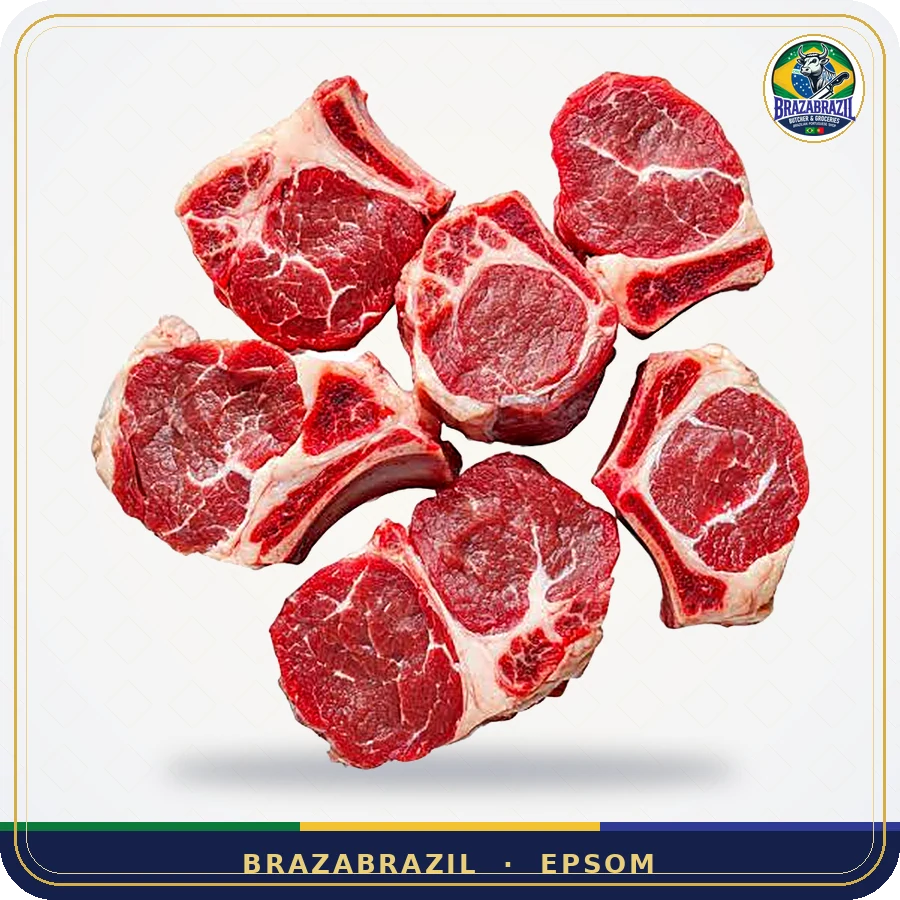
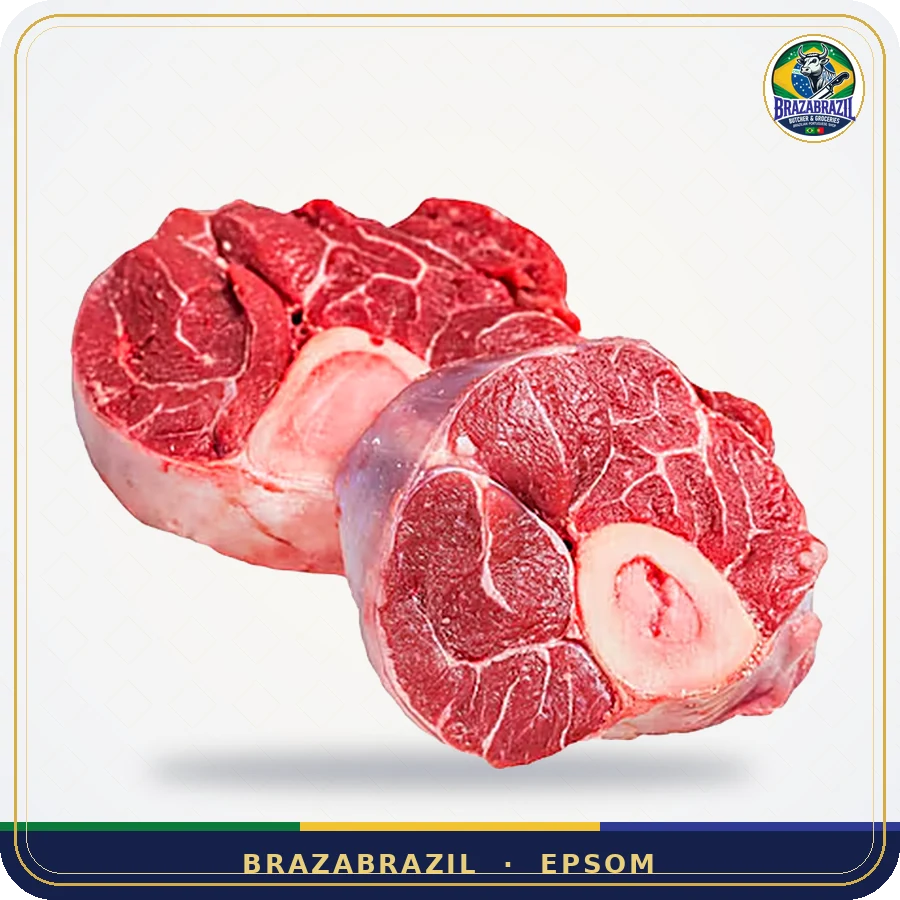
Full price audit (150 items match lists); remove example products and linguiças without photo; Mortadela Porminho Extra per list; new photos osso buco, Beirão kit, Snip 15; hide BBQ boxes section
Claude-Session: https://claude.ai/code/session_01DDRaaWaovpG94AFaRVuRbM

diff --git a/js/products.js b/js/products.js
@@ -20,115 +20,11 @@
    NOTE: prices below are EXAMPLES — replace with the shop's real prices.
    ============================================================ */
 
-window.CATEGORIES = ["all", "beef", "pork", "chicken", "sausages", "boxes", "groceries"];
+window.CATEGORIES = ["all", "beef"];
 
 window.PRODUCTS = [
-  // BEEF → real cuts and prices live in js/beef.js
-
-  // ---------- PORK ----------
-  { id: "costelinha", name: "Costelinha de Porco", cat: "pork", unit: "kg", price: 11.99, tags: [], image: "", available: true,
-    sub: { en: "Pork ribs", pt: "Costela suína", es: "Costillas de cerdo" },
-    desc: { en: "Meaty pork ribs, ideal with sal grosso on the barbecue.",
-            pt: "Costelinha carnuda, ideal com sal grosso na churrasqueira.",
-            es: "Costillas carnosas, ideales con sal gruesa a la parrilla." } },
-  { id: "panceta", name: "Panceta", cat: "pork", unit: "kg", price: 10.99, tags: [], image: "", available: true,
-    sub: { en: "Pork belly", pt: "Barriga de porco", es: "Panceta de cerdo" },
-    desc: { en: "Crispy crackling outside, juicy inside. A churrasco favourite.",
-            pt: "Pururuca por fora, suculenta por dentro. Favorita do churrasco.",
-            es: "Crujiente por fuera, jugosa por dentro. Favorita del churrasco." } },
-  { id: "pernil", name: "Pernil", cat: "pork", unit: "kg", price: 8.99, tags: [], image: "", available: true,
-    sub: { en: "Pork leg", pt: "Pernil suíno", es: "Pierna de cerdo" },
-    desc: { en: "Marinate overnight and roast for the perfect Sunday lunch.",
-            pt: "Tempere na véspera e asse para o almoço de domingo perfeito.",
-            es: "Marínalo la noche anterior y ásalo para la comida del domingo." } },
-
-  // ---------- CHICKEN ----------
-  { id: "coracao", name: "Coração de Frango", cat: "chicken", unit: "kg", price: 7.99, tags: ["classic"], image: "", available: true,
-    sub: { en: "Chicken hearts", pt: "Coraçãozinho", es: "Corazones de pollo" },
-    desc: { en: "Skewered and grilled — a must at every Brazilian barbecue.",
-            pt: "No espeto e na brasa — não pode faltar no churrasco.",
-            es: "En brocheta y a la brasa — imprescindible en el churrasco." } },
-  { id: "asinha", name: "Asinha de Frango", cat: "chicken", unit: "kg", price: 6.99, tags: [], image: "", available: true,
-    sub: { en: "Chicken wings", pt: "Asinha e coxinha da asa", es: "Alitas de pollo" },
-    desc: { en: "Season with garlic and lime, grill until golden.",
-            pt: "Tempere com alho e limão e asse até dourar.",
-            es: "Adoba con ajo y lima y asa hasta dorar." } },
-  { id: "sobrecoxa", name: "Sobrecoxa", cat: "chicken", unit: "kg", price: 7.49, tags: [], image: "", available: true,
-    sub: { en: "Chicken thighs", pt: "Sobrecoxa desossada", es: "Contramuslos de pollo" },
-    desc: { en: "Boneless and juicy, ready for the grill or the oven.",
-            pt: "Desossada e suculenta, pronta para a grelha ou o forno.",
-            es: "Deshuesado y jugoso, listo para la parrilla o el horno." } },
-
-  // ---------- SAUSAGES ----------
-  { id: "toscana", name: "Linguiça Toscana", cat: "sausages", unit: "kg", price: 9.99, tags: ["best"], image: "", available: true,
-    sub: { en: "Fresh Brazilian pork sausage", pt: "Linguiça fresca de porco", es: "Salchicha fresca brasileña" },
-    desc: { en: "Lightly seasoned fresh sausage — the opener of every churrasco.",
-            pt: "Linguiça fresca levemente temperada — a abertura de todo churrasco.",
-            es: "Salchicha fresca suavemente sazonada — la que abre todo churrasco." } },
-  { id: "calabresa", name: "Linguiça Calabresa", cat: "sausages", unit: "each", price: 4.49, tags: [], image: "", available: true,
-    sub: { en: "Smoked sausage · pack", pt: "Defumada · pacote", es: "Ahumada · paquete" },
-    desc: { en: "Smoked and slightly spicy. Fry with onions or add to feijoada.",
-            pt: "Defumada e levemente picante. Acebolada ou na feijoada.",
-            es: "Ahumada y ligeramente picante. Con cebolla o en la feijoada." } },
-  { id: "chourico", name: "Chouriço", cat: "sausages", unit: "each", price: 5.99, tags: ["portuguese"], image: "", available: true,
-    sub: { en: "Portuguese chorizo", pt: "Chouriço português", es: "Chorizo portugués" },
-    desc: { en: "Traditional Portuguese smoked chouriço, perfect flame-grilled.",
-            pt: "Chouriço português tradicional, perfeito assado na chama.",
-            es: "Chorizo portugués tradicional, perfecto asado a la llama." } },
-
-  // ---------- BBQ BOXES ----------
-  { id: "box4", name: "Churrasco Box · 4", cat: "boxes", unit: "each", price: 59.00, tags: ["easy"], image: "", available: true,
-    sub: { en: "Brazilian BBQ box for 4 people", pt: "Kit churrasco para 4 pessoas", "pt-PT": "Caixa de churrasco para 4 pessoas", es: "Caja de churrasco para 4 personas" },
-    desc: { en: "Picanha, linguiça, chicken hearts, farofa and sal grosso.",
-            pt: "Picanha, linguiça, coraçãozinho, farofa e sal grosso.",
-            es: "Picanha, linguiça, corazones de pollo, farofa y sal gruesa." } },
-  { id: "box8", name: "Churrasco Box · 8", cat: "boxes", unit: "each", price: 109.00, tags: ["popular"], image: "", available: true,
-    sub: { en: "Brazilian BBQ box for 8 people", pt: "Kit churrasco para 8 pessoas", "pt-PT": "Caixa de churrasco para 8 pessoas", es: "Caja de churrasco para 8 personas" },
-    desc: { en: "Picanha, fraldinha, linguiça, wings, hearts, farofa and pão de queijo.",
-            pt: "Picanha, fraldinha, linguiça, asinhas, coraçãozinho, farofa e pão de queijo.",
-            es: "Picanha, fraldinha, linguiça, alitas, corazones, farofa y pão de queijo." } },
-  { id: "boxpicanha", name: "Picanha Lovers", cat: "boxes", unit: "each", price: 79.00, tags: [], image: "", available: true,
-    sub: { en: "Two whole picanhas + sides", pt: "Duas picanhas inteiras + acompanhamentos", es: "Dos picanhas enteras + guarniciones" },
-    desc: { en: "Two premium picanhas, sal grosso, farofa and chimichurri.",
-            pt: "Duas picanhas premium, sal grosso, farofa e chimichurri.",
-            es: "Dos picanhas premium, sal gruesa, farofa y chimichurri." } },
-
-  // ---------- GROCERIES ----------
-  { id: "paodequeijo", name: "Pão de Queijo", cat: "groceries", unit: "each", price: 7.99, tags: ["gf"], image: "", available: true,
-    sub: { en: "Cheese bread · frozen 1 kg", pt: "Congelado · 1 kg", es: "Pan de queso · congelado 1 kg" },
-    desc: { en: "Warm, chewy Brazilian cheese bread. Naturally gluten-free.",
-            pt: "Quentinho e macio, como em Minas. Naturalmente sem glúten.",
-            es: "Pan de queso brasileño, tierno y elástico. Naturalmente sin gluten." } },
-  { id: "farofa", name: "Farofa Pronta", cat: "groceries", unit: "each", price: 3.49, tags: [], image: "", available: true,
-    sub: { en: "Toasted cassava flour", pt: "Farofa temperada", es: "Harina de yuca tostada" },
-    desc: { en: "The crunchy side every churrasco needs.",
-            pt: "O acompanhamento crocante que todo churrasco precisa.",
-            es: "El acompañamiento crujiente que todo churrasco necesita." } },
-  { id: "salgrosso", name: "Sal Grosso", cat: "groceries", unit: "each", price: 2.49, tags: [], image: "", available: true,
-    sub: { en: "Coarse BBQ salt · 1 kg", pt: "Para churrasco · 1 kg", es: "Sal gruesa · 1 kg" },
-    desc: { en: "The only seasoning a good picanha needs.",
-            pt: "O único tempero que uma boa picanha precisa.",
-            es: "El único condimento que necesita una buena picanha." } },
-  { id: "feijao", name: "Feijão Preto", cat: "groceries", unit: "each", price: 3.29, tags: ["vegan"], image: "", available: true,
-    sub: { en: "Black beans · 1 kg", pt: "1 kg", es: "Frijoles negros · 1 kg" },
-    desc: { en: "For feijoada and everyday rice and beans.",
-            pt: "Para a feijoada e o arroz com feijão de todo dia.",
-            es: "Para la feijoada y el arroz con frijoles de cada día." } },
-  { id: "guarana", name: "Guaraná Antarctica", cat: "groceries", unit: "each", price: 1.29, tags: [], image: "", available: true,
-    sub: { en: "Brazilian soft drink · can", pt: "Lata", es: "Refresco brasileño · lata" },
-    desc: { en: "Brazil's favourite fizzy drink.",
-            pt: "O refrigerante preferido do Brasil.",
-            es: "El refresco favorito de Brasil." } },
-  { id: "bacalhau", name: "Bacalhau", cat: "groceries", unit: "kg", price: 14.99, tags: ["portuguese"], image: "", available: true,
-    sub: { en: "Portuguese salt cod", pt: "Bacalhau salgado português", es: "Bacalao salado portugués" },
-    desc: { en: "Premium salted cod for bacalhau à brás and more.",
-            pt: "Bacalhau premium para bacalhau à brás, à Gomes de Sá e muito mais.",
-            es: "Bacalao premium para bacalhau à brás y mucho más." } },
-  { id: "nata", name: "Pastéis de Nata", cat: "groceries", unit: "each", price: 5.49, tags: ["portuguese"], image: "", available: true,
-    sub: { en: "Portuguese custard tarts · 4", pt: "Caixa com 4", es: "Pastelitos de nata · 4" },
-    desc: { en: "Crisp pastry, creamy custard, a touch of cinnamon.",
-            pt: "Massa folhada estaladiça, creme suave e um toque de canela.",
-            es: "Hojaldre crujiente, crema suave y un toque de canela." } }
+  // Real products live in js/beef.js, js/deli.js, js/frozen.js and js/drinks.js.
+  // (The example products used during the build were removed so no invented price appears on the site.)
 ];
 
 /* "Know your cuts" guide */

diff --git a/js/i18n.js b/js/i18n.js
@@ -21,10 +21,10 @@ window.I18N = {
     "pt-PT": "BrazaBrazil — Talho e Mercearia Brasileira e Portuguesa em Epsom",
     es: "BrazaBrazil — Carnicería y Tienda Brasileña y Portuguesa en Epsom" },
   meta_desc: {
-    en: "Brazilian and Portuguese butcher and groceries in Epsom, Surrey. Picanha, fraldinha, linguiça, churrasco boxes and more. Order online for collection or local delivery.",
-    "pt-BR": "Açougue e mercearia brasileira e portuguesa em Epsom, Surrey. Picanha, fraldinha, linguiça, kits de churrasco e muito mais. Peça online para retirar ou receber em casa.",
-    "pt-PT": "Talho e mercearia brasileira e portuguesa em Epsom, Surrey. Picanha, fraldinha, linguiça, caixas de churrasco e muito mais. Encomende online para levantar ou receber em casa.",
-    es: "Carnicería y tienda brasileña y portuguesa en Epsom, Surrey. Picanha, fraldinha, linguiça, cajas de churrasco y más. Pide online para recoger o recibir a domicilio." },
+    en: "Brazilian and Portuguese butcher and groceries in Epsom, Surrey. Picanha, fraldinha, chouriço, cachaça, frozen Brazilian food and more. Order online for collection or local delivery.",
+    "pt-BR": "Açougue e mercearia brasileira e portuguesa em Epsom, Surrey. Picanha, fraldinha, chouriço, cachaça, congelados brasileiros e muito mais. Peça online para retirar ou receber em casa.",
+    "pt-PT": "Talho e mercearia brasileira e portuguesa em Epsom, Surrey. Picanha, fraldinha, chouriço, cachaça, congelados brasileiros e muito mais. Encomende online para levantar ou receber em casa.",
+    es: "Carnicería y tienda brasileña y portuguesa en Epsom, Surrey. Picanha, fraldinha, chouriço, cachaça, congelados brasileños y más. Pide online para recoger o recibir a domicilio." },
 
   /* ---------- Top bar & header ---------- */
   t_butcher: { en: "Brazilian &amp; Portuguese Butcher", "pt-BR": "Açougue Brasileiro &amp; Português", "pt-PT": "Talho Brasileiro &amp; Português", es: "Carnicería Brasileña &amp; Portuguesa" },
@@ -73,10 +73,10 @@ window.I18N = {
   s_search: { en: "Search picanha, linguiça…", "pt-BR": "Buscar picanha, linguiça…", "pt-PT": "Procurar picanha, linguiça…", es: "Buscar picanha, linguiça…" },
   vip_title: { en: "Daily offers in our WhatsApp VIP group", "pt-BR": "Ofertas diárias no nosso grupo VIP do WhatsApp", "pt-PT": "Ofertas diárias no nosso grupo VIP do WhatsApp", es: "Ofertas diarias en nuestro grupo VIP de WhatsApp" },
   vip_text: {
-    en: "Special prices on picanha, boxes and groceries — every day, only for members.",
-    "pt-BR": "Preços especiais em picanha, kits e mercearia — todos os dias, só para membros.",
-    "pt-PT": "Preços especiais em picanha, caixas e mercearia — todos os dias, só para membros.",
-    es: "Precios especiales en picanha, cajas y productos — cada día, solo para miembros." },
+    en: "Special prices on picanha, cuts and groceries — every day, only for members.",
+    "pt-BR": "Preços especiais em picanha, carnes e mercearia — todos os dias, só para membros.",
+    "pt-PT": "Preços especiais em picanha, carnes e mercearia — todos os dias, só para membros.",
+    es: "Precios especiales en picanha, carnes y productos — cada día, solo para miembros." },
   vip_join: { en: "Join free", "pt-BR": "Entrar grátis", "pt-PT": "Entrar grátis", es: "Únete gratis" },
   price_note: {
     en: "Meat sold by weight is cut to order; the final price is confirmed when weighed.",

diff --git a/js/deli.js b/js/deli.js
@@ -41,9 +41,6 @@ window.GROUPS.deli = [
   S("calabresa-jlp", "Calabresa JLP", "linguicas", 14.90, "calabresa-jlp",
     { en: "Smoked sausage · per kg", pt: "Calabresa defumada · por kg", es: "Salchicha ahumada · por kg" },
     { en: "The classic smoked calabresa, sold by weight.", pt: "A clássica calabresa defumada, vendida a peso.", es: "La clásica calabresa ahumada, al peso." }, { unit: "kg" });
-  S("linguica-dchaves", "Linguiça D'Chaves Tradicional", "linguicas", 35.00, "",
-    { en: "Traditional Portuguese linguiça · per kg", pt: "Linguiça tradicional portuguesa · por kg", es: "Longaniza portuguesa tradicional · por kg" },
-    { en: "Artisanal smoked linguiça from Chaves, Portugal.", pt: "Linguiça fumada artesanal de Chaves, Portugal.", es: "Longaniza ahumada artesanal de Chaves, Portugal." }, { unit: "kg", tags: ["portuguese"] });
 
   /* ---------- CHOURIÇOS & FARINHEIRAS ---------- */
   S("chourica-lavrador", "Chouriça Lavrador Terras do Demo", "chouricos", 2.99, "chourica-lavrador",
@@ -73,10 +70,8 @@ window.GROUPS.deli = [
   G("mortadela", "Mortadela", "frios",
     { en: "Mortadella", pt: "Mortadela", es: "Mortadela" },
     { en: "For the classic mortadela sandwich — sliced thin, piled high.", pt: "Para o clássico sanduíche de mortadela — fatiada fininha.", es: "Para el clásico bocadillo de mortadela — en lonchas finas." },
-    [["mortadela-porminho", "Porminho", 3.50, "mortadela-porminho"], ["mortadela-beretta", "Bologna IGP F. Beretta", 3.99, "mortadela-beretta"]]);
-  S("chouricao-porminho", "Chouriçao Extra Porminho", "chouricos", 12.99, "chouricao-porminho",
-    { en: "Large Portuguese chorizo · per kg", pt: "Chouriçao grosso · por kg", es: "Chorizo grueso portugués · por kg" },
-    { en: "Sliced thin for sandwiches and boards — smoky and full of paprika.", pt: "Fatiado fininho para sanduíches e tábuas — fumado e com colorau.", es: "En lonchas finas para bocadillos y tablas — ahumado y con pimentón." }, { unit: "kg", tags: ["portuguese"] });
+    [["mortadela-porminho", "Porminho", 3.50, "mortadela-porminho"], ["mortadela-beretta", "Bologna IGP F. Beretta", 3.99, "mortadela-beretta"],
+     ["mortadela-porminho-extra", "Porminho Extra · kg", 12.99, "mortadela-porminho-extra", "kg"]]);
 
   /* ---------- DEFUMADOS & SALGADOS ---------- */
   S("entremeada", "Porco Salgado Entremeada Tiras", "defumados", 13.50, "entremeada",
@@ -112,8 +107,7 @@ window.GROUPS.deli = [
   window.PRODUCTS = window.PRODUCTS.filter(p => !["calabresa", "chourico", "bacalhau"].includes(p.id));
   window.PRODUCTS.push(...out);
   window.CATEGORIES = window.CATEGORIES.filter(c => c !== "sausages");
-  if (!window.CATEGORIES.includes("deli")) {
-    const i = window.CATEGORIES.indexOf("frozen");
-    window.CATEGORIES.splice(i < 0 ? window.CATEGORIES.length : i, 0, "deli");
-  }
+  if (!window.CATEGORIES.includes("deli")) window.CATEGORIES.push("deli");
+  const ORDER = ["all", "beef", "deli", "frozen", "drinks"];
+  window.CATEGORIES.sort((a, b) => (ORDER.indexOf(a) + 99) % 99 - (ORDER.indexOf(b) + 99) % 99);
 })();

diff --git a/js/app.js b/js/app.js
@@ -593,14 +593,14 @@
   }
 
   /* --- Churrasco calculator --- */
-  const MIX = [ ["picanha-angus", .30], ["fraldinha", .20], ["toscana", .20], ["coracao", .10], ["asinha", .10], ["panceta", .10] ];
+  const MIX = [ ["picanha-angus", .35], ["fraldinha", .20], ["contrafile-br", .15], ["maminha", .15], ["calabresa-jlp", .15] ];
   function churrascoPlan() {
     const hungry = (document.querySelector('input[name="bzApp"]:checked') || {}).value === "hungry";
     const n = bz.people, totalKg = n * (hungry ? .55 : .4);
     const avail = MIX.filter(([id]) => byId[id] && byId[id].available !== false);
     const share = avail.reduce((s, [, f]) => s + f, 0) || 1;
     const items = avail.map(([id, f]) => [id, Math.max(.5, Math.round((totalKg * f / share) * 2) / 2)]);
-    const extra = [["farofa", Math.ceil(n / 6)], ["salgrosso", Math.ceil(n / 15)], ["rez-18", Math.ceil(n / 15)]]
+    const extra = [["farofa", Math.ceil(n / 6)], ["salgrosso", Math.ceil(n / 15)], ["rez-18", Math.ceil(n / 15)], ["salsicha-calabresa", Math.ceil(n / 8)]]
       .filter(([id]) => byId[id] && byId[id].available !== false);
     return { n, totalKg, items: items.concat(extra) };
   }
@@ -650,6 +650,15 @@
   // Greeting once per visit
   if (!ssGet("bz_seen")) setTimeout(() => { brazaSay(t("bz_greet"), 9000); ssSet("bz_seen", "1"); }, 2600);
   else bz.btn.querySelector(".braza__dot").hidden = true;
+
+  /* No BBQ boxes in the catalogue yet → hide that section; "Build your churrasco" opens Seu Braza's calculator */
+  if (!P.some(p => p.cat === "boxes")) {
+    const sec = document.getElementById("boxes"); if (sec) sec.hidden = true;
+    $$('a[href="#boxes"]').forEach(a => {
+      if (a.classList.contains("btn")) a.addEventListener("click", e => { e.preventDefault(); brazaOpen(true); showView("calc"); });
+      else a.remove();
+    });
+  }
 
   /* Header shrinks on scroll */
   const header = $(".header");

diff --git a/js/frozen.js b/js/frozen.js
@@ -46,7 +46,7 @@ window.GROUPS.frozen = [
   G("snip-paodequeijo", "Pão de Queijo Snip", "cheesebread",
     { en: "Frozen Brazilian cheese bread", pt: "Pão de queijo congelado", es: "Pan de queso congelado" },
     { en: "Classic Minas-style cheese bread, ready to bake.", pt: "Pão de queijo mineiro clássico, pronto para assar.", es: "Pan de queso clásico estilo Minas, listo para hornear." },
-    [["snip-15", "15 unidades", 5.99, "snip-50"], ["snip-50", "50 unidades", 19.99, "snip-50"]],
+    [["snip-15", "15 unidades", 5.99, "snip-15"], ["snip-50", "50 unidades", 19.99, "snip-50"]],
     { tags: ["frozen", "gf"] });
   S("cheese-yummies", "Pão de Queijo Cheese Yummies", "cheesebread", 5.99, "cheese-yummies",
     { en: "18 units", pt: "18 unidades", es: "18 unidades" },
